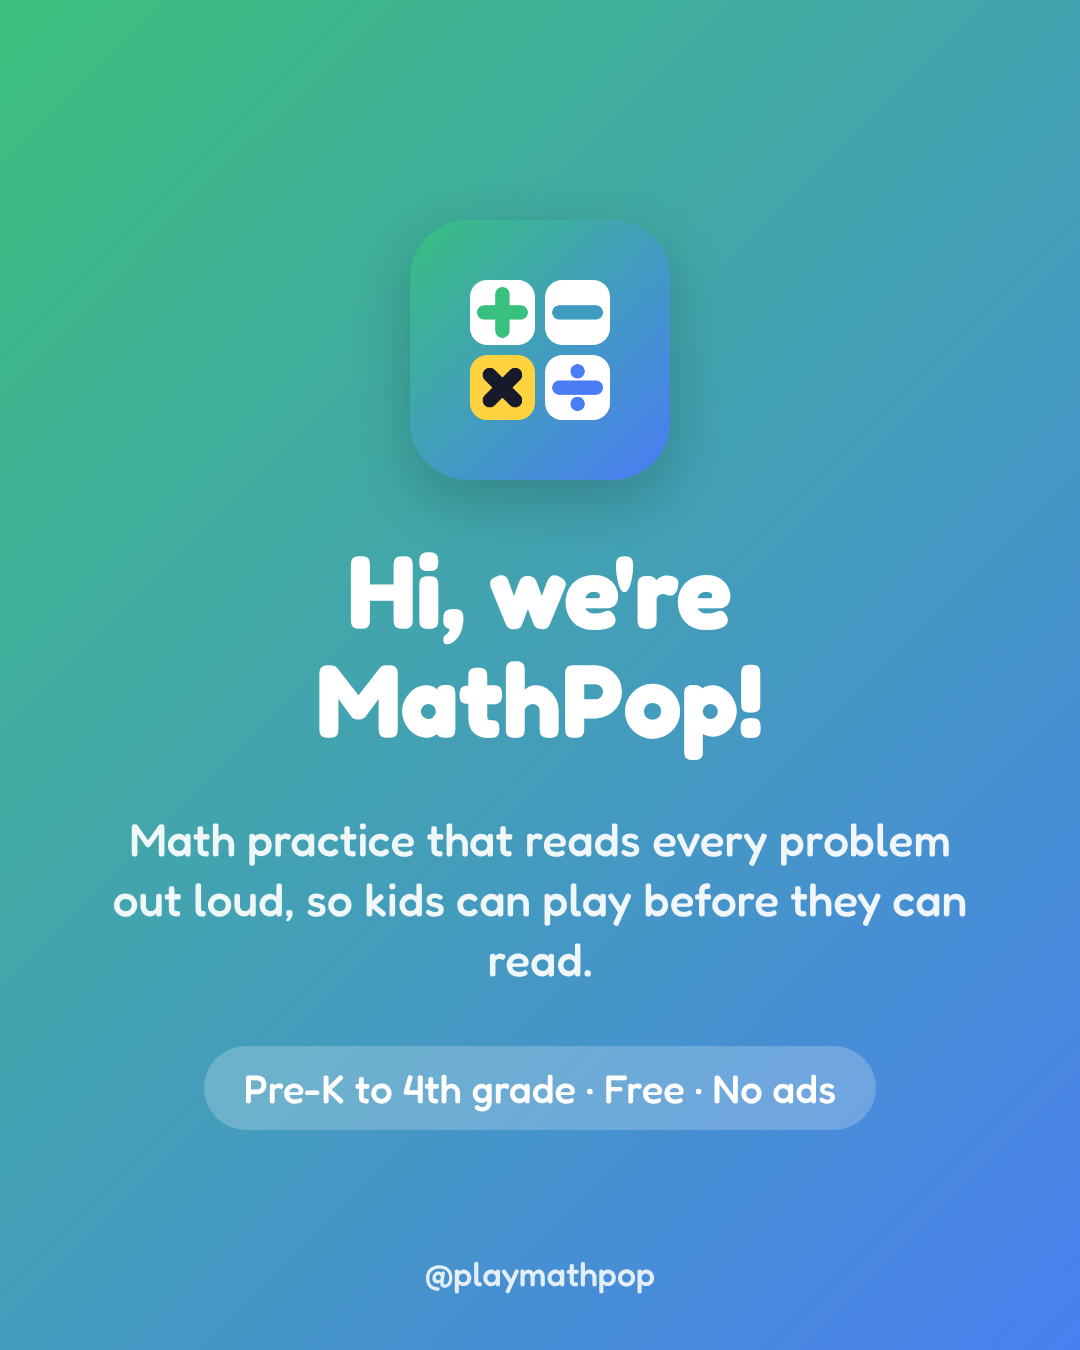
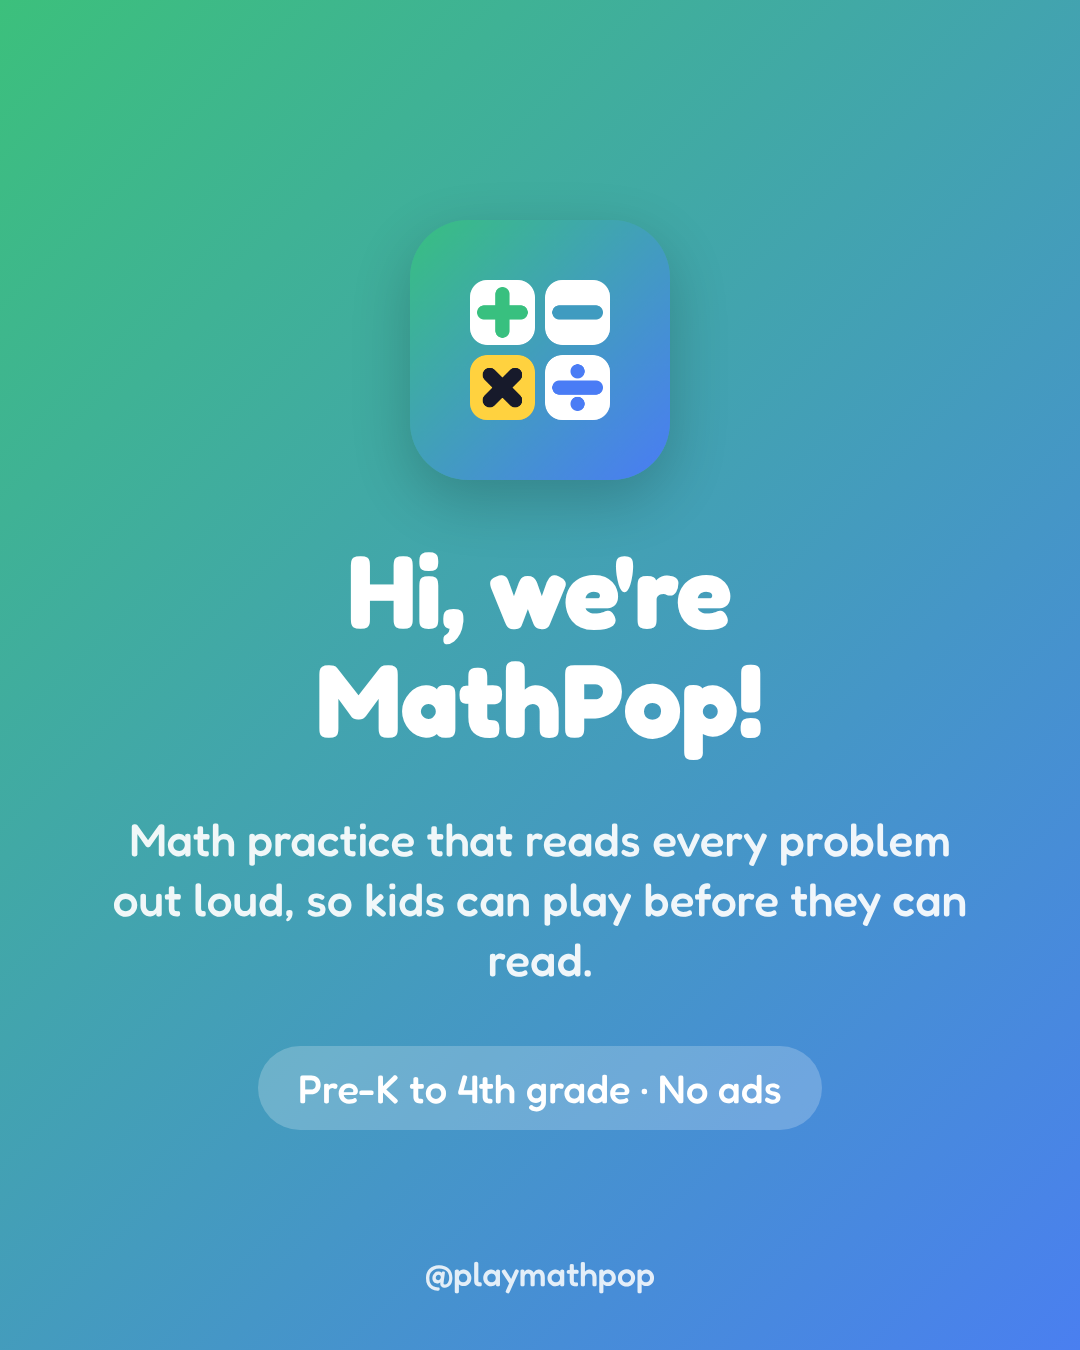
Instagram kit: drop "free" claims, add dated posting schedule
MathPop will be paid, so the intro graphic, bio and captions no longer
say it's free. Captions now carry their hashtags so they can be
scheduled in the Instagram app, with dates for posts 02-10.

Claude-Session: https://claude.ai/code/session_013kqWdr8f2CZRnB6RPtRtwg

Changed region(s): [[0.1833, 0.7778, 0.825, 0.84]]

diff --git a/marketing/instagram/README.md b/marketing/instagram/README.md
@@ -1,7 +1,7 @@
 # MathPop on Instagram (@playmathpop)
 
 Everything needed to launch the account: profile picture, ten launch posts in
-`posts/` (1080×1350, Instagram's 4:5 feed size), captions and a four-week plan.
+`posts/` (1080×1350, Instagram's 4:5 feed size), captions and a posting schedule.
 Rebuild the images after changing the app screenshots with
 `node marketing/instagram/build.mjs` (needs `npm install` first).
 
@@ -27,56 +27,56 @@ Rebuild the images after changing the app screenshots with
 **Bio** (under 150 characters):
 ```
 Math practice that reads every problem out loud 🔊
-Pre-K to 4th grade · Free · No ads
+Pre-K to 4th grade · No ads, no tracking
 Made by a mom for her kids 💛
-👇 Play now
+👇 Get MathPop
 ```
 
 **Link:** https://marikalam.github.io/mathpop/ (swap in the App Store link once the app is live)
 
 **Highlights** (create after the first stories): *How it works*, *Puzzles*, *Languages*, *Pre-K*.
 
-## 3. Launch: post the first 9 before telling anyone
+## 3. Posts and schedule
 
-Instagram shows newest first, so post these **in reverse** (09 first, 01 last).
-That way 01 sits top-left and the grid reads in order. Post 10 is for week 2.
+Post 01 goes up right away. The rest are scheduled at **7:30 pm** (after the
+kids' bedtime, when parents scroll) on Mondays, Wednesdays and Saturdays.
+Each caption ends with its hashtags, because a scheduled post can't add a first comment.
 
-| # | Image | Caption |
-|---|---|---|
-| 01 | `01-hello.png` | Hi! 👋 We're MathPop, a math practice game for kids from Pre-K to 4th grade. Every problem is read out loud, so even kids who can't read yet can practice on their own. Free, no ads, no tracking. Link in bio to play. |
-| 02 | `02-reads-aloud.png` | Your child picks their grade and MathPop builds Today's Practice around them: the problems they missed, the topic they find hardest, and something new. Three for a bonus sticker ⭐ |
-| 03 | `03-show-me-how.png` | Stuck? Tap "Show me how" and MathPop talks your child through it out loud, step by step, like a grown-up sitting next to them. A wrong answer never gives the answer away. It's just "Try again." |
-| 04 | `04-puzzle.png` | Puzzle time 🧠 Can your kid do 19 + 9 in their head? Drop their answer in the comments 👇 (Trick in the next post!) |
-| 05 | `05-puzzle-answer.png` | Answer: 28! The make-a-ten trick: 19 only needs 1 more to be 20, so borrow 1 from the 9. Now it's 20 + 8. This is how Singapore math teaches mental addition, and it's built into MathPop's hints. |
-| 06 | `06-alligators.png` | The hungry alligator always eats the bigger number 🐊 Kids drag the sign in and watch it chomp. Comparing numbers, finally fun. |
-| 07 | `07-toddler.png` | Starting from Toddler: tap each ladybug and MathPop counts along out loud. Perfect for little ones who want to play like their big siblings 🐞 |
-| 08 | `08-made-by-a-mom.png` | I built MathPop for my own kids because I couldn't find a math app without ads, upsells or screens full of text they couldn't read yet. Now I'm sharing it with yours 💛 |
-| 09 | `09-languages.png` | Tap a number and hear it in 23 languages: Spanish, French, Japanese, Cantonese, Mandarin, Korean, Hindi and more 🌏 Great for bilingual families. Which language does your kid hear at home? |
-| 10 | `10-pictures.png` | Math you can see 👀 Every problem comes with pictures, from counting apples to rows and columns, so kids understand it instead of memorizing it. |
+| # | When | Image | Caption |
+|---|---|---|---|
+| 01 | Now | `01-hello.png` | Hi! 👋 We're MathPop, a math practice game for kids from Pre-K to 4th grade. Every problem is read out loud, so even kids who can't read yet can practice on their own. No ads, no tracking. Link in bio. #kidsmath #mathforkids #kindergartenmath #homeschoolmath #earlylearning |
+| 02 | Mon Nov 2 | `02-reads-aloud.png` | Your child picks their grade and MathPop builds Today's Practice around them: the problems they missed, the topic they find hardest, and something new. Finish all three for a bonus sticker ⭐ #mathforkids #firstgrademath #secondgrademath #homeschooling #learningthroughplay |
+| 03 | Wed Nov 4 | `03-show-me-how.png` | Stuck? Tap "Show me how" and MathPop talks your child through it out loud, step by step, like a grown-up sitting next to them. A wrong answer never gives the answer away. It's just "Try again." #singaporemath #kidsmath #homeschoolmath #mathgames #earlylearning |
+| 04 | Sat Nov 7 | `04-puzzle.png` | Puzzle time 🧠 Can your kid do 19 + 9 in their head? Drop their answer in the comments 👇 (The trick is in our next post!) #mathpuzzle #kidsmath #mentalmath #homeschoolmath #momsofinstagram |
+| 05 | Mon Nov 9 | `05-puzzle-answer.png` | Answer: 28! The make-a-ten trick: 19 only needs 1 more to be 20, so borrow 1 from the 9. Now it's 20 + 8. This is how Singapore math teaches mental addition, and it's built into MathPop's hints. #singaporemath #mentalmath #firstgrademath #mathforkids #homeschooling |
+| 06 | Wed Nov 11 | `06-alligators.png` | The hungry alligator always eats the bigger number 🐊 Kids drag the sign in and watch it chomp. Comparing numbers, finally fun. #kindergartenmath #mathgames #learningthroughplay #kidsmath #preschoolathome |
+| 07 | Sat Nov 14 | `07-toddler.png` | Starting from Toddler: tap each ladybug and MathPop counts along out loud. Perfect for little ones who want to play like their big siblings 🐞 #toddlerlearning #preschoolathome #earlylearning #countingforkids #momsofinstagram |
+| 08 | Mon Nov 16 | `08-made-by-a-mom.png` | I built MathPop for my own kids because I couldn't find a math app without ads or screens full of text they couldn't read yet. Now I'm sharing it with yours 💛 #momsofinstagram #momboss #kidsmath #homeschoolmom #educationalapps |
+| 09 | Wed Nov 18 | `09-languages.png` | Tap a number and hear it in 23 languages: Spanish, French, Japanese, Cantonese, Mandarin, Korean, Hindi and more 🌏 Great for bilingual families. Which language does your kid hear at home? #bilingualkids #raisingbilingualkids #multilingualfamily #kidsmath #mathforkids |
+| 10 | Sat Nov 21 | `10-pictures.png` | Math you can see 👀 Every problem comes with pictures, from counting apples to rows and columns, so kids understand it instead of memorizing it. #visualmath #mathforkids #secondgrademath #homeschoolmath #learningthroughplay |
 
-**Hashtags.** Paste these as the first comment. Use 5 to 8 and rotate them between posts:
-```
-#kidsmath #mathforkids #kindergartenmath #firstgrademath #secondgrademath
-#homeschoolmath #singaporemath #earlylearning #homeschooling #momsofinstagram
-#learningthroughplay #mathgames #bilingualkids #preschoolathome #educationalapps
-```
+### How to schedule a post (Instagram app, free)
 
-## 4. First four weeks
+1. Tap **+** → **Post** → pick the image (don't crop it) → **Next**.
+2. Paste the caption.
+3. Tap **More options** (on older versions, **Advanced settings**) → turn on **Schedule this post** → set the date and 7:30 pm → **Done**.
+4. Tap **Schedule**. Scheduled posts are under your profile → **☰** → **Scheduled content**, where you can change or cancel them.
 
-Post 3 times a week (Mon, Wed, Sat mornings) and add 3 to 4 stories a week.
-Reels reach far more people than photos, so aim for at least one a week.
+Instagram lets you schedule up to 75 days ahead, so posts 02–10 can all be scheduled in one sitting.
+On a computer, **Meta Business Suite** (business.facebook.com → Planner, also free) does the same on a calendar.
 
-| Week | Mon | Wed | Sat | Stories |
-|---|---|---|---|---|
-| 1 | Launch grid (posts 01–09) | Reel: 15-second screen recording of one full round, ending on the sticker | Post 10 (Math you can see) | Poll: "What grade is your kid in?" · Behind the scenes of building it |
-| 2 | Puzzle post (new problem; make it with the same template) | Reel: your kid's hands playing (no face needed), with the app voice as audio | Answer + trick post | Quiz sticker with a math problem · Share the sticker book |
-| 3 | Carousel: "5 ways to practice math at the grocery store" | Reel: "Show me how" walkthrough, recorded on screen | Languages: the same number in 4 languages | Ask: "What math topic is hardest at your house?" |
-| 4 | Answer the most common reply from week 3 | Reel: Pre-K counting with ladybugs | Feature request round-up / "what's new in MathPop" | Countdown to App Store launch |
+### Stories and Reels (not schedulable: do these live)
+
+| Week | Ideas |
+|---|---|
+| Nov 2 | Poll: "What grade is your kid in?" · A behind-the-scenes look at building MathPop |
+| Nov 9 | Quiz sticker with a math problem · Reel: 15-second screen recording of one full round, ending on the sticker |
+| Nov 16 | Ask: "What math topic is hardest at your house?" · Reel: your kid's hands playing, with the app voice as audio |
 
 ## 5. Growing it
 
 - **15 minutes a day** of commenting (not just liking) on posts in #homeschoolmath, #singaporemath and kindergarten-teacher accounts gets more early followers than anything else.
 - Reply to every comment within the first hour after posting.
-- Send DMs to 10 small homeschool and mom accounts (2k–20k followers) offering MathPop free in exchange for an honest story. Small accounts reply far more often than big ones.
+- Send DMs to 10 small homeschool and mom accounts (2k–20k followers) offering a free copy (an App Store promo code) in exchange for an honest story. Small accounts reply far more often than big ones.
 - Share each post to your personal stories and family group chats in week 1. The first 50 followers are the hardest.
 - After 4 weeks, check *Professional dashboard* → which posts got the most saves and shares, then make more like those.
